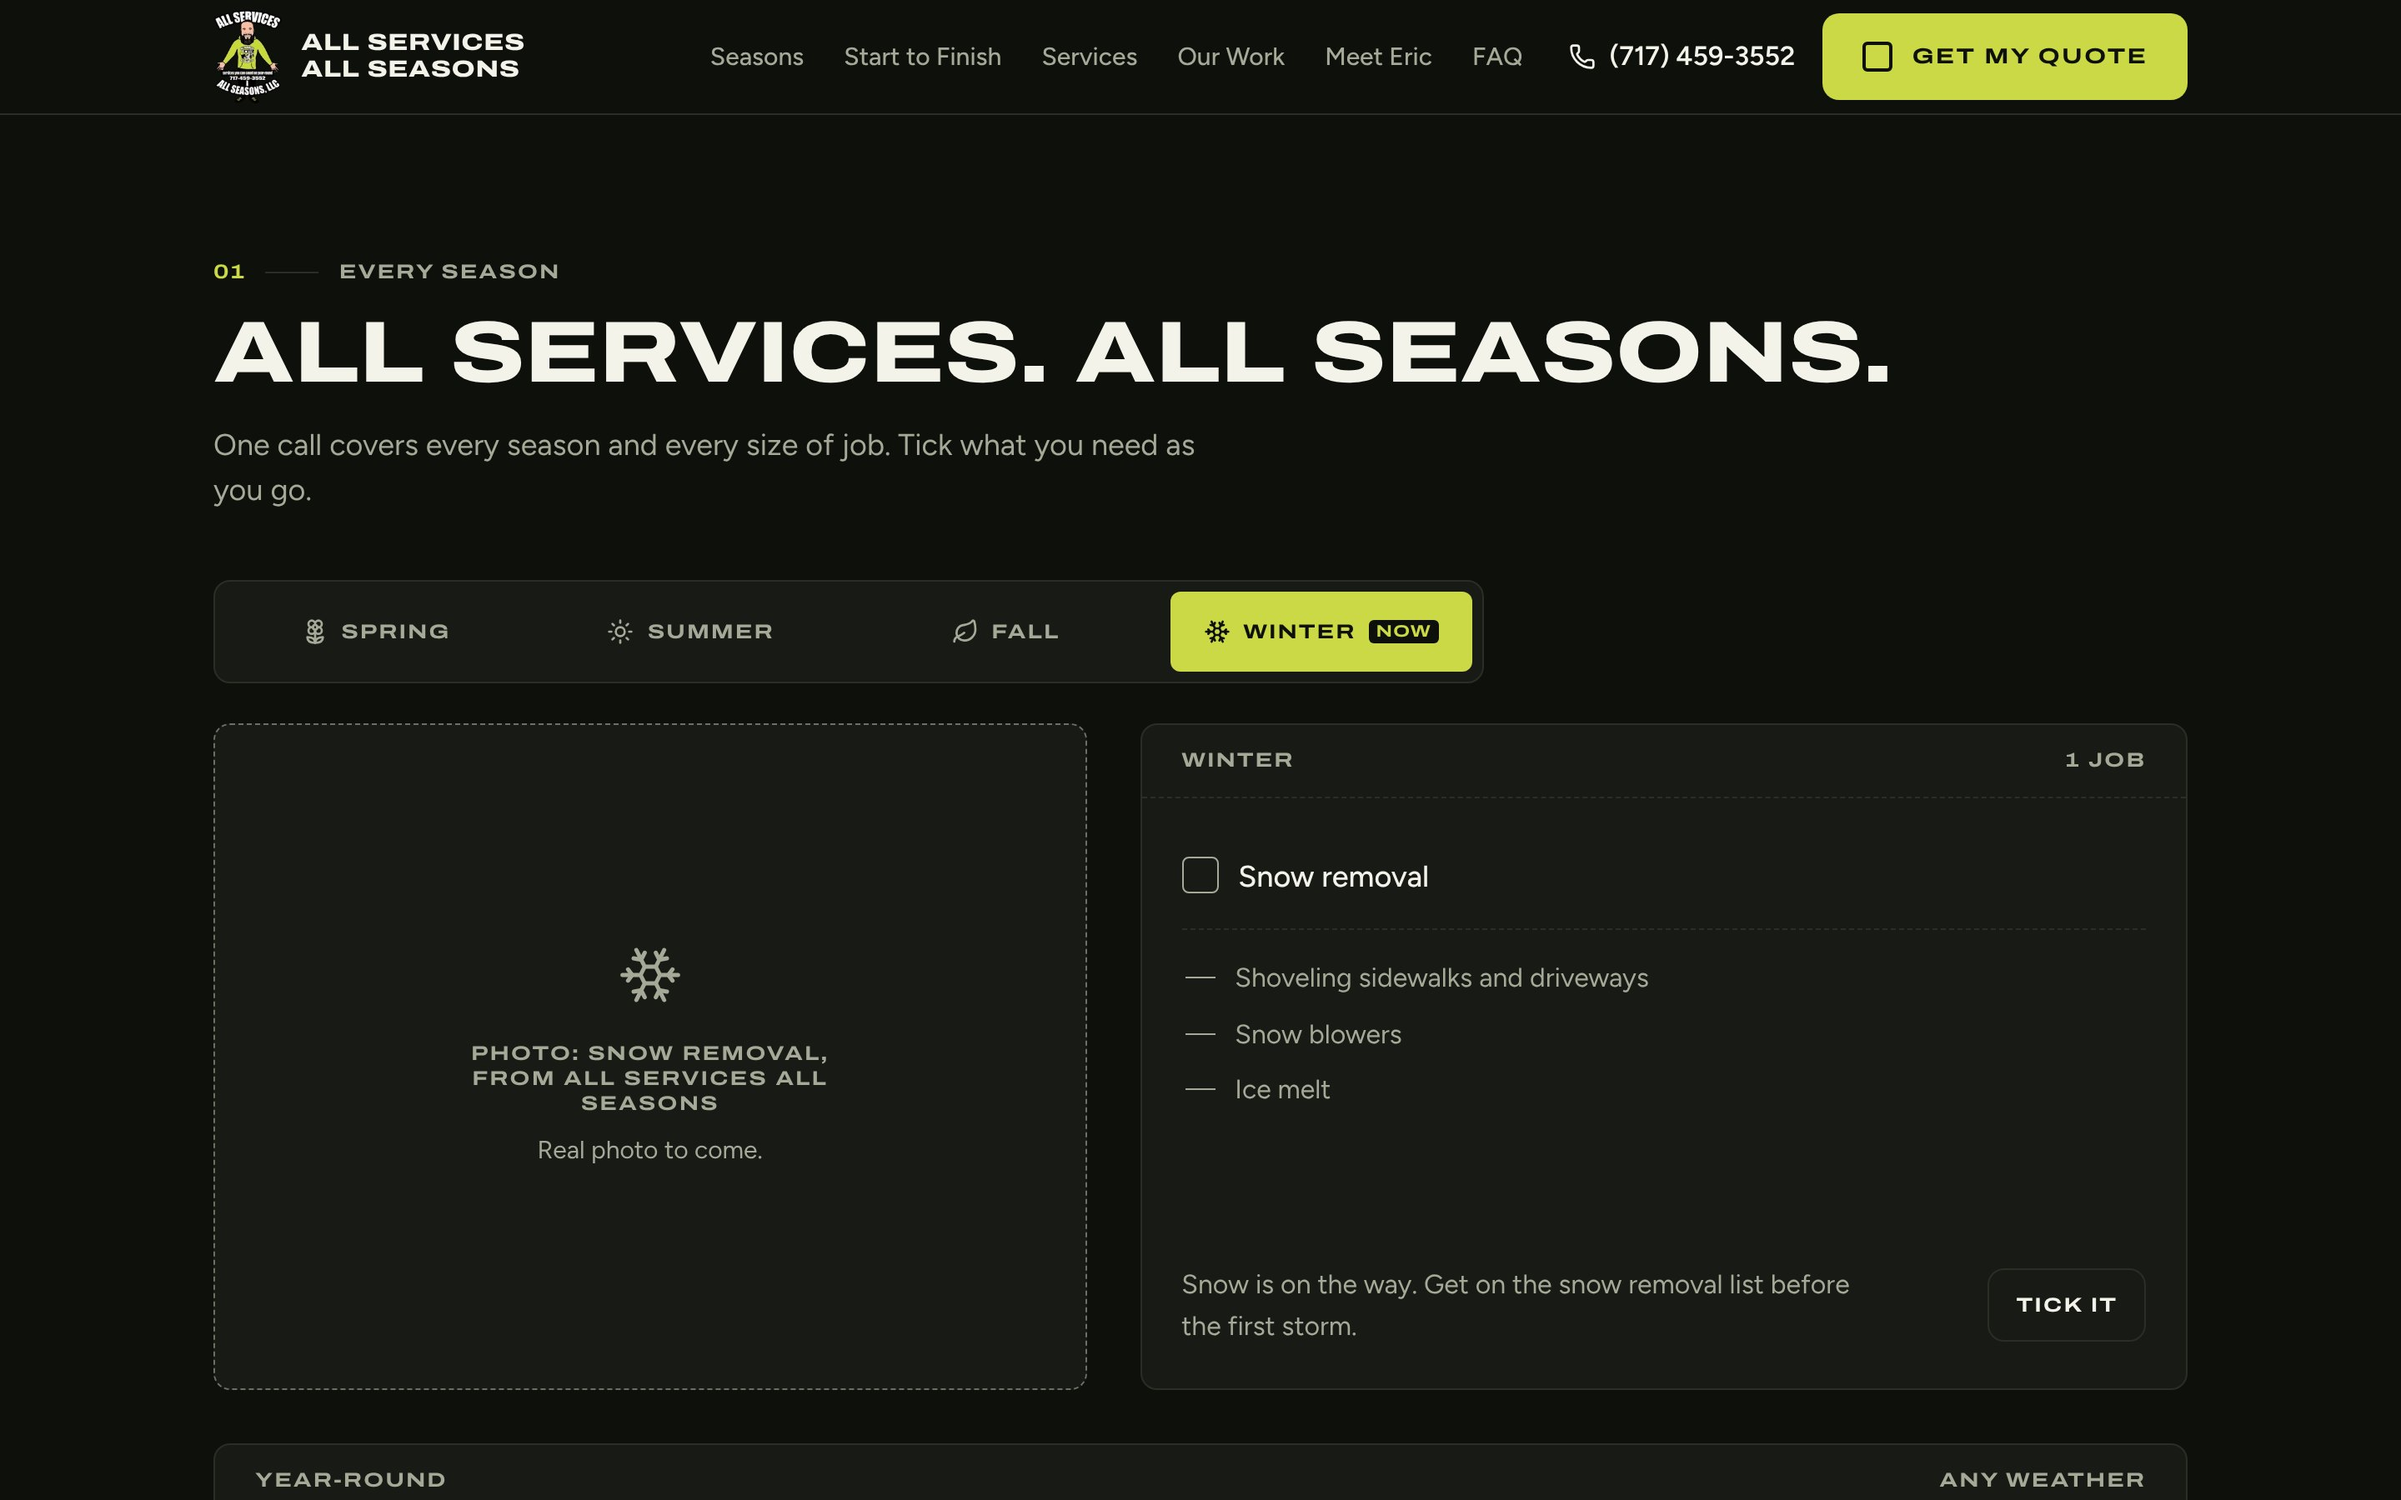
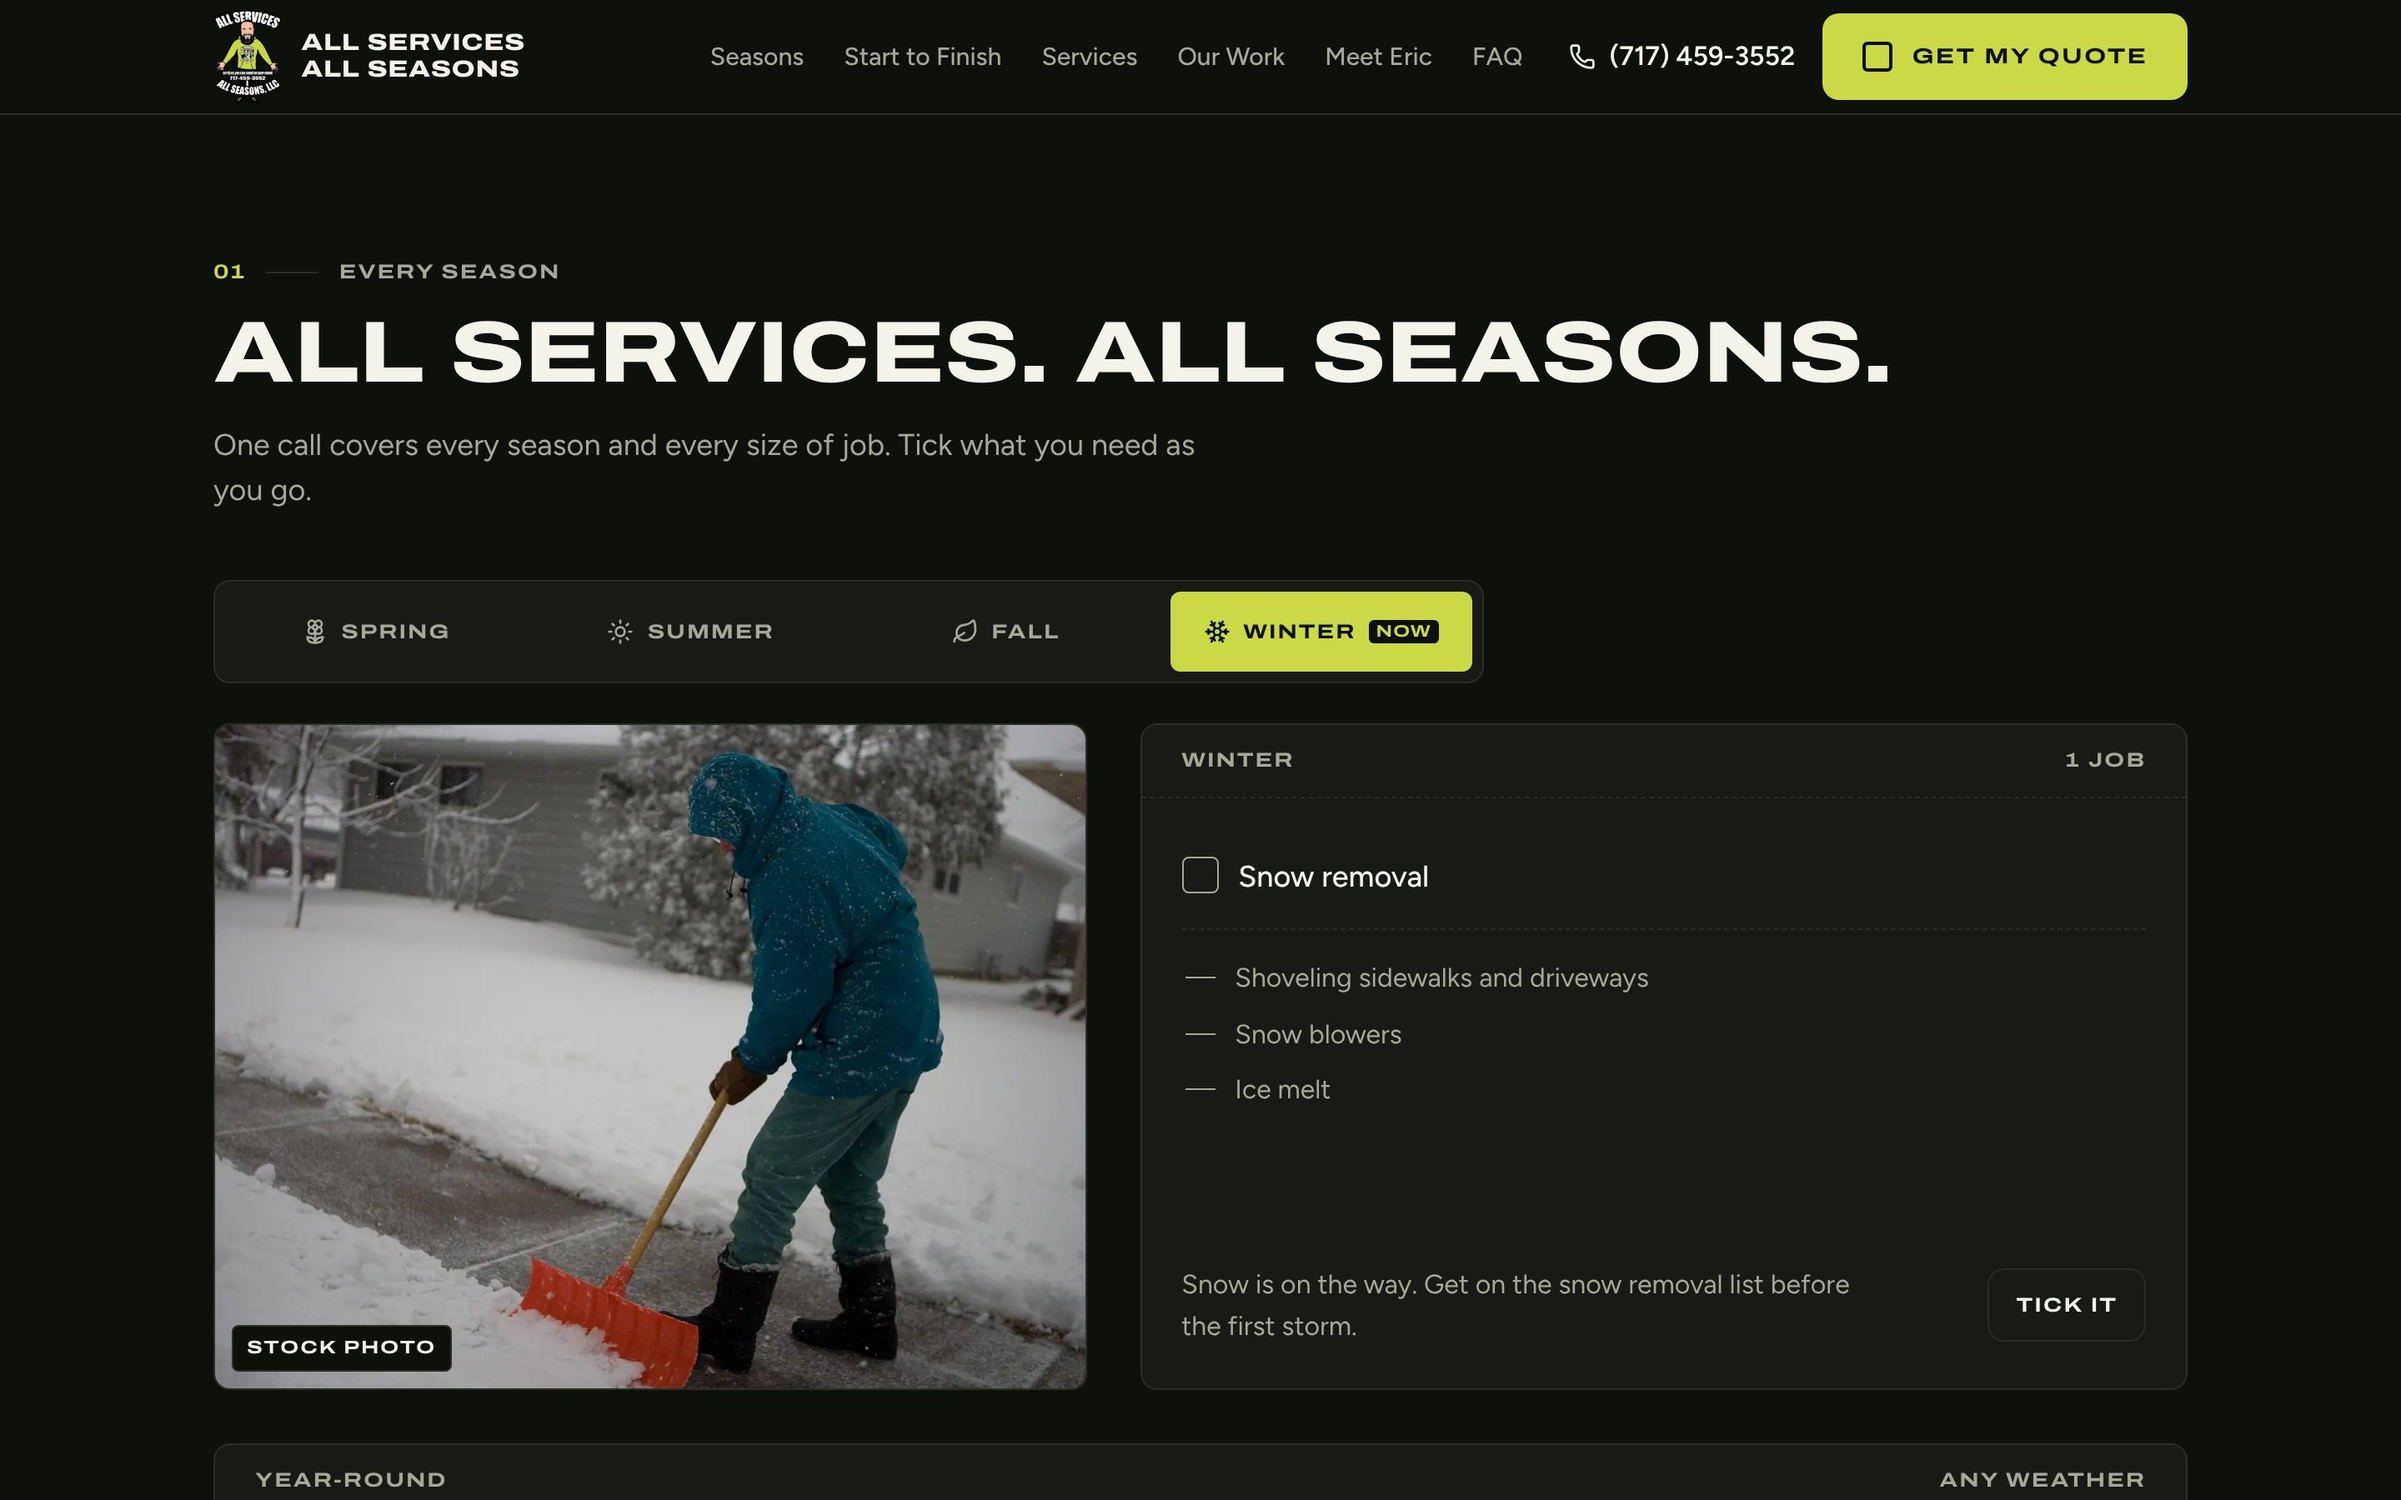
Add a stock snow removal photo to the Winter tab
Replace the placeholder on the Season Switch Winter tab with a public-domain
FEMA photo of a sidewalk being shovelled, labelled Stock photo on the page.
Source and licence are recorded in assets/stock/CREDITS.md. Reword the gallery
count card so it only speaks for the gallery, and add the swap to the launch
checklist.

Claude-Session: https://claude.ai/code/session_013uExWCcSFJoTUBiV3qziWe

Changed region(s): [[0.0625, 0.4667, 0.4688, 0.9333]]

diff --git a/components/sections/OurWork.tsx b/components/sections/OurWork.tsx
@@ -98,10 +98,10 @@ export function OurWork() {
             </figure>
             <div className="flex flex-col justify-between gap-6 rounded-[10px] border border-ink/20 p-6 lg:col-span-4 lg:mb-8 lg:p-8">
               <div>
-                <p className="label-caps text-ink/70">On this page</p>
+                <p className="label-caps text-ink/70">In this gallery</p>
                 <p className="display mt-4 text-[4rem] leading-[0.9] sm:text-[5.5rem]">{counts.all}</p>
                 <p className="mt-4 text-lg leading-normal">
-                  Real photos from real jobs. Gazebos, basements, garden beds, mailboxes. No stock pictures.
+                  Every one from a real job. Gazebos, basements, garden beds, mailboxes.
                 </p>
               </div>
               <QuoteButton variant="dark" className="self-start" />

diff --git a/lib/services.ts b/lib/services.ts
@@ -150,6 +150,8 @@ export type Season = {
   label: string;
   jobs: ServiceId[];
   photo: PhotoId | null;
+  // True when the photo is a stock stand-in, not the owner's. Shown with a small label.
+  stockPhoto?: boolean;
   placeholder?: string;
   // Season bar at the top of the page.
   bar: string;
@@ -203,8 +205,9 @@ export const SEASONS: Record<SeasonId, Season> = {
     id: "winter",
     label: "Winter",
     jobs: ["snow-removal"],
-    photo: null,
-    placeholder: "Photo: snow removal, from All Services All Seasons",
+    // DRAFT: public-domain stock photo until the owner supplies a real snow removal photo.
+    photo: "stock-snow",
+    stockPhoto: true,
     bar: "Snow is on the way. Get on the snow removal list before the first storm.",
     quoteJobs: ["snow-removal"],
     band: {

diff --git a/components/sections/Seasons.tsx b/components/sections/Seasons.tsx
@@ -138,6 +138,12 @@ export function Seasons() {
                       : "size-full object-cover lg:absolute lg:inset-0"
                   }
                 />
+                {/* Honest label: this one is a stand-in, not one of his job photos. */}
+                {season.stockPhoto ? (
+                  <span className="label-caps absolute bottom-2.5 left-2.5 rounded-[4px] border border-rule bg-ink px-2 py-1.5 text-[0.6875rem] text-paper">
+                    Stock photo
+                  </span>
+                ) : null}
               </div>
             ) : (
               <PlaceholderPhoto

diff --git a/lib/photos.ts b/lib/photos.ts
@@ -55,6 +55,8 @@ const ALT: Record<PhotoId, string> = {
   "47": "New porch floor boards, with the owner's own caption: To this.",
   "48": "Mildewed gray siding with a ladder, with the owner's own caption: From this...",
   "49": "The same siding clean, with the owner's own caption: To this.",
+  // Stock stand-in, not the owner's photo. See assets/stock/CREDITS.md.
+  "stock-snow": "A person in a teal parka shovels snow off a sidewalk with an orange shovel. Stock photo.",
 };
 
 export type Photo = {

diff --git a/assets/stock/CREDITS.md b/assets/stock/CREDITS.md
@@ -1,0 +1,13 @@
+# Stock photos
+
+Stand-in photos that are not the owner's. Each one is labelled "Stock photo" on
+the page and should be replaced with a real job photo when one exists.
+
+## snow-shoveling-sidewalk-fema-40421.jpg
+
+- Shows: a person in a teal parka shovelling snow off a sidewalk with an orange shovel.
+- Used on: the Winter tab of the Season Switch.
+- Photographer: Andrea Booher, FEMA Photo Library (photo 40421), 30 March 2009.
+- Licence: public domain. A work of a US federal government employee made as part of official duties.
+- Source: https://commons.wikimedia.org/wiki/File:FEMA_-_40421_-_North_Dakota_resident_shovels_snow_off_his_sidewalk.jpg
+- File here is the 1920px rendition from Wikimedia Commons.

diff --git a/SEO-LAUNCH.md b/SEO-LAUNCH.md
@@ -44,6 +44,7 @@ Search the code for `DRAFT` and `Sample`. Each one needs the owner's answer.
 - [ ] The mascot's name. The old logo file is called "Fred Green Shirt". The site does not name it.
 - [ ] Sample reviews: replace with real Google reviews (`components/sections/Reviews.tsx`), then add `review` markup only if the reviews are real and shown on the page
 - [ ] Real photos for snow removal, mowing, roofing, plumbing, electrical and flooring work
+- [ ] Replace the stock snow removal photo on the Winter tab with a real one (`lib/services.ts`, `assets/stock/CREDITS.md`). It is labelled "Stock photo" on the page until then.
 - [ ] Update the dates in `app/sitemap.ts` when content changes
 
 ## 5. Re-test

diff --git a/README.md b/README.md
@@ -49,4 +49,6 @@ footer. Live mode is indexable. See `SEO-LAUNCH.md`.
 The owner's originals are in `assets/raw`. `npm run images` crops and converts
 them to responsive WebP in `public/images` and writes `lib/photo-sizes.json`.
 `npm run brand-assets` rebuilds the favicon and app icons from the logo.
-Only the owner's own photos are used. No stock or generated images.
+The gallery and project stories use only the owner's own photos. One stand-in is used
+where he has no photo yet: the Winter tab shows a public-domain stock photo, labelled
+"Stock photo" on the page. Source and licence are in `assets/stock/CREDITS.md`.
